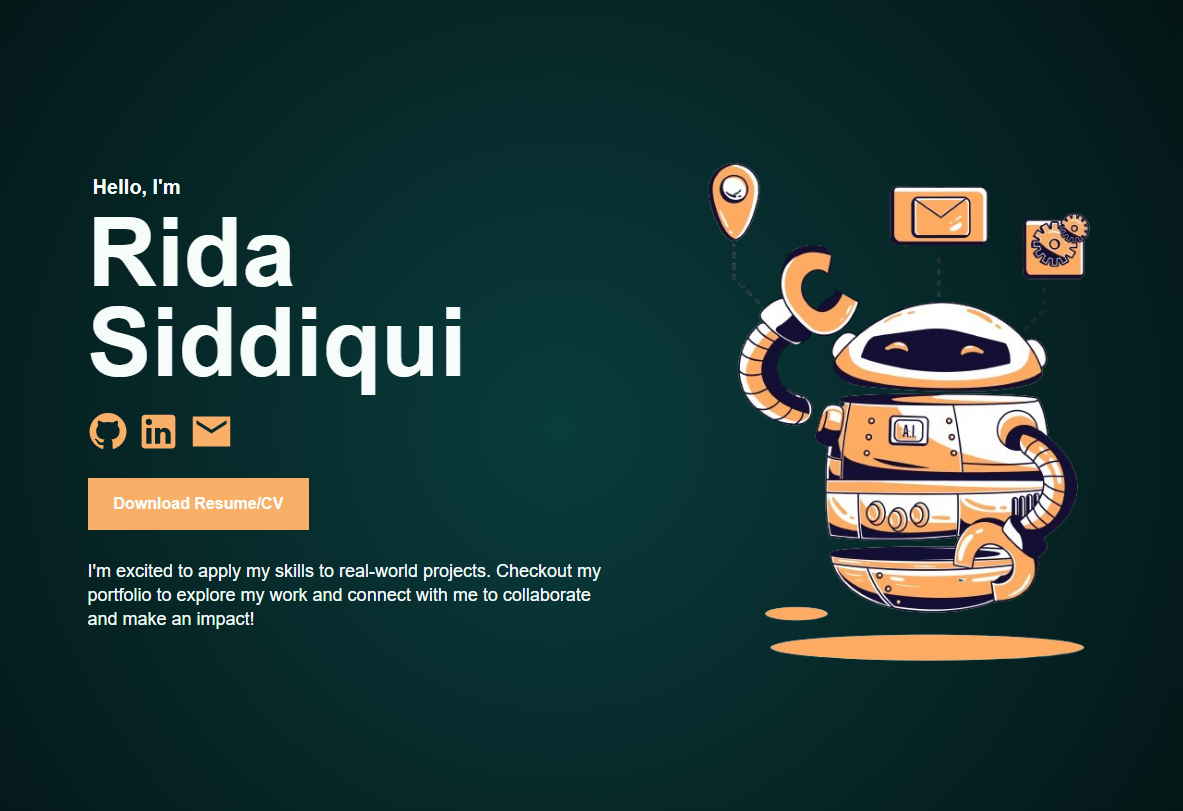
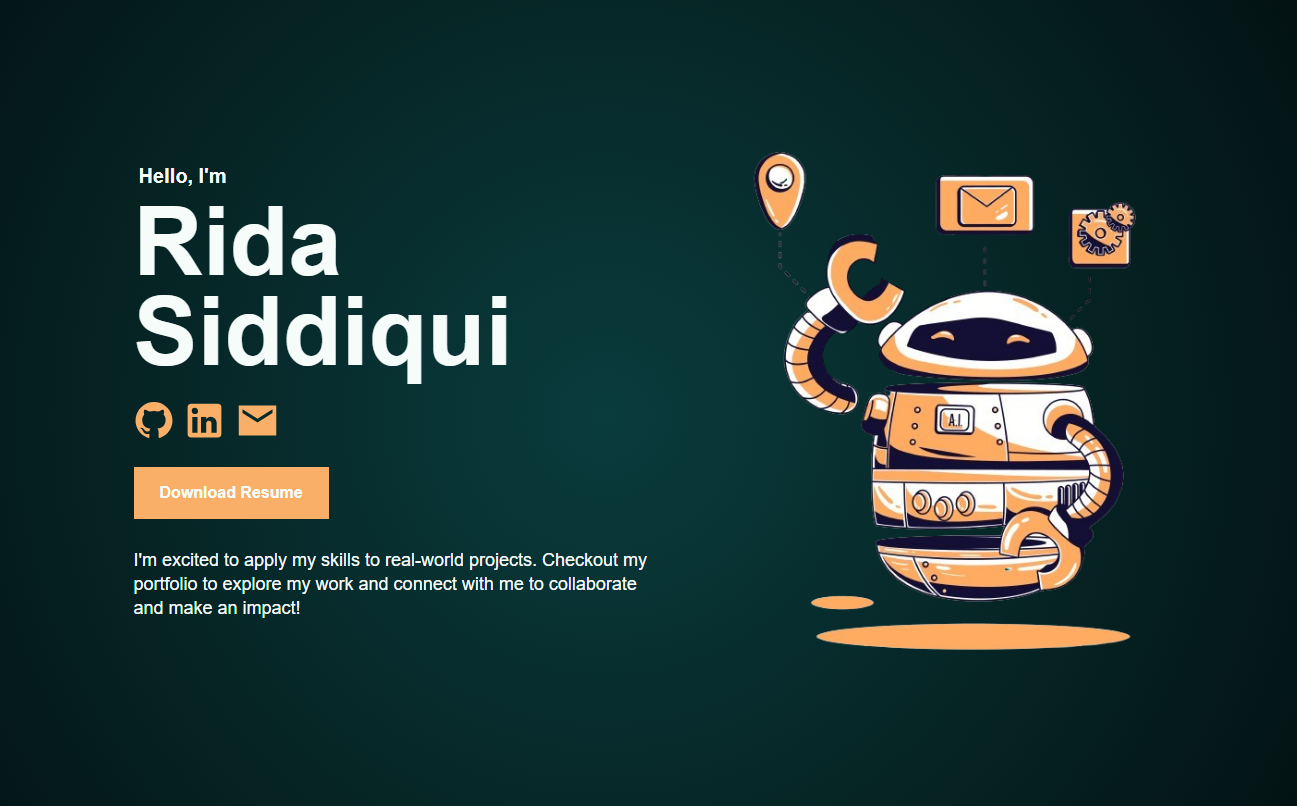
Added to skills and background section

diff --git a/frontend/src/Pages/Home/Skills.jsx b/frontend/src/Pages/Home/Skills.jsx
@@ -32,8 +32,9 @@ export default function Skills() {
                         <p className="background-description">
                             I recently graduated from <strong><mark style={{backgroundColor: '#fac089', color: '#0a3c3d'}}>California State Polytechnic University Pomona</mark></strong> with 
                             a Bachelor of Science in Computer Science.
-                            I'm a passionate software developer with a love for exploring and creating user-friendly content for the web. 
-                            My interest in this field originally started in middle school when I was introduced to building a simple HTML website. 
+                            I'm a passionate software developer with a love for exploring and creating user-friendly content for the web.
+                            My goal is to combine my programming knowledge with my creative design skills to craft appealing but functional websites. 
+                            <br></br><br></br>My interest in this field originally started in middle school when I was introduced to building a simple HTML website. 
                             Ever since then I've been poking me head in all sorts of technologies, ulitmately bringing my back to where I started—websites!
 
                         </p>
